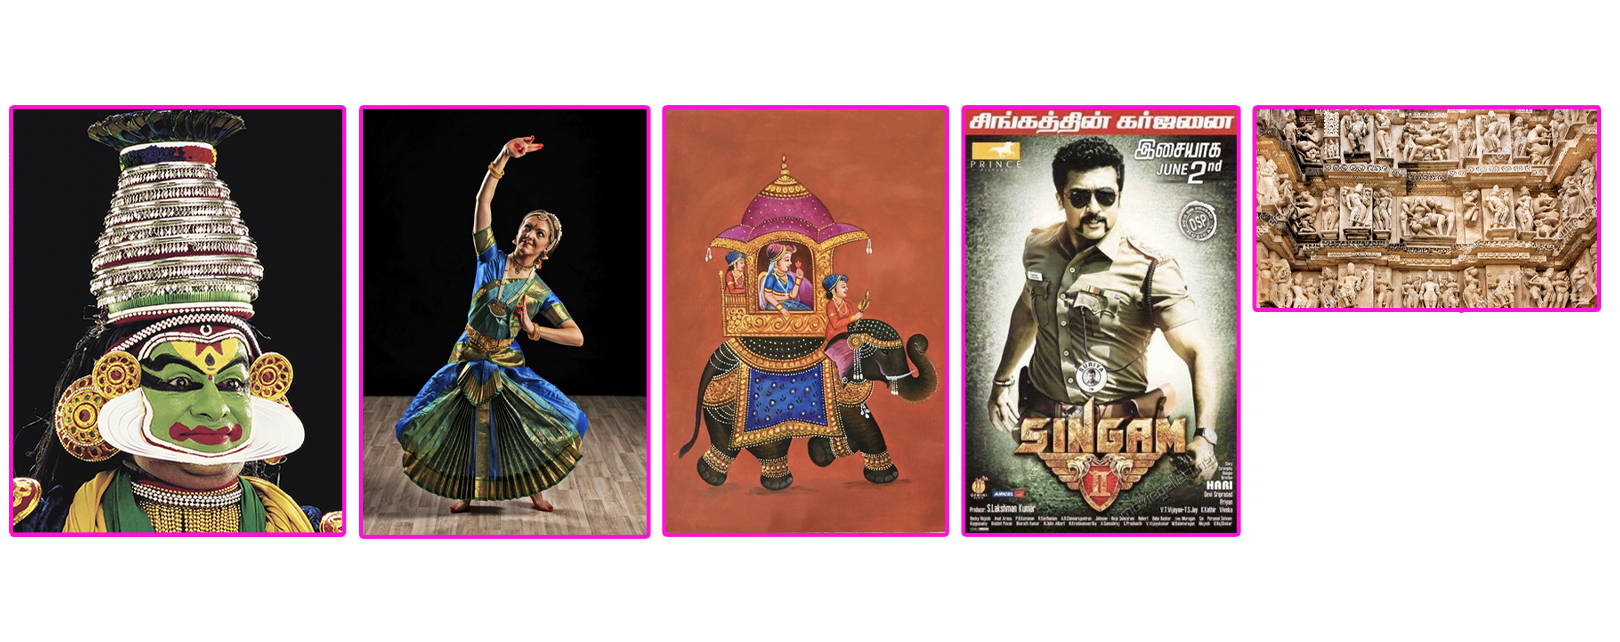
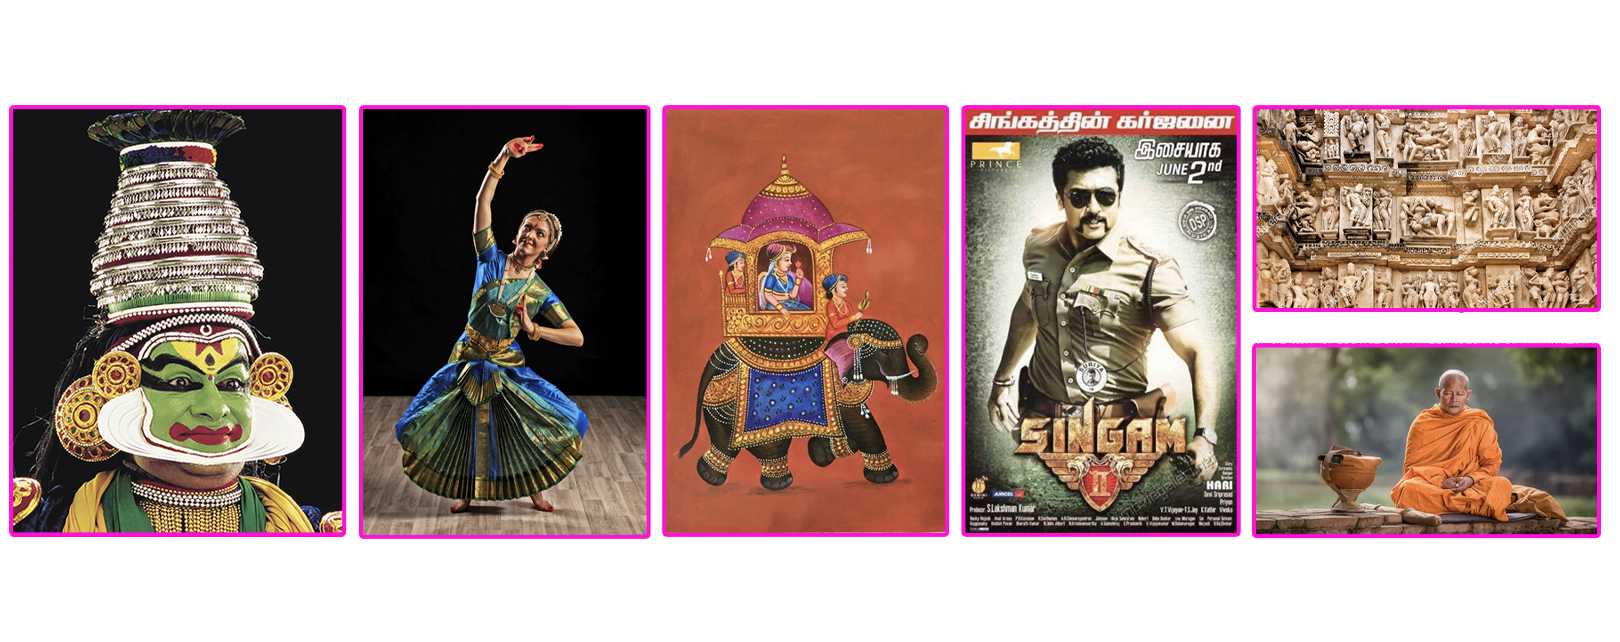
monk

Changed region(s): [[0.7716, 0.5296, 0.9877, 0.8411]]

diff --git a/index.html b/index.html
@@ -230,9 +230,9 @@
                   <li>
                     <a href="#slide=10" title="Six">
                       <figure>
-                        <img alt="Thumbnail" src="./static/images/thumb/4.png">
+                        <img alt="Thumbnail" src="./static/images/bg/monk.png">
                         <figcaption>
-                            <h2>Six</h2>
+                            <h2>Monk</h2>
                         </figcaption>
                       </figure>
                     </a>
@@ -277,7 +277,7 @@
 
        <section>
 
-        <span class="background" style="background-image:url('./static/images/mughal.png')"></span>
+        <span class="background" style="background-image:url('./static/images/monk.png')"></span>
            
         </section>
         
